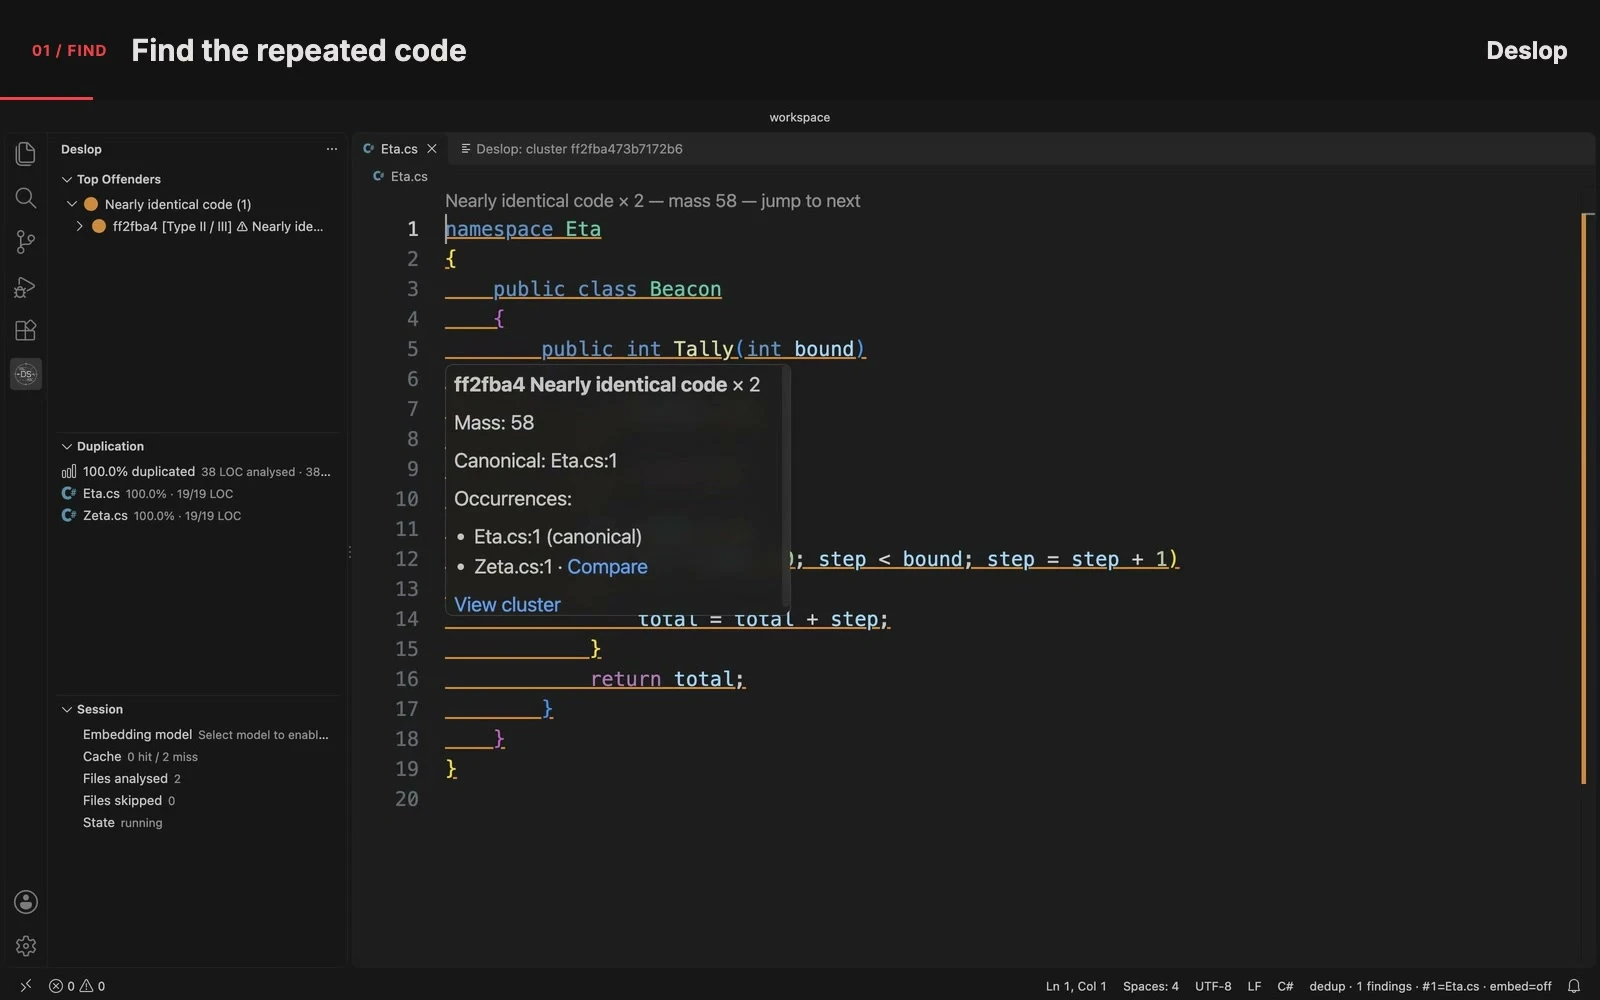
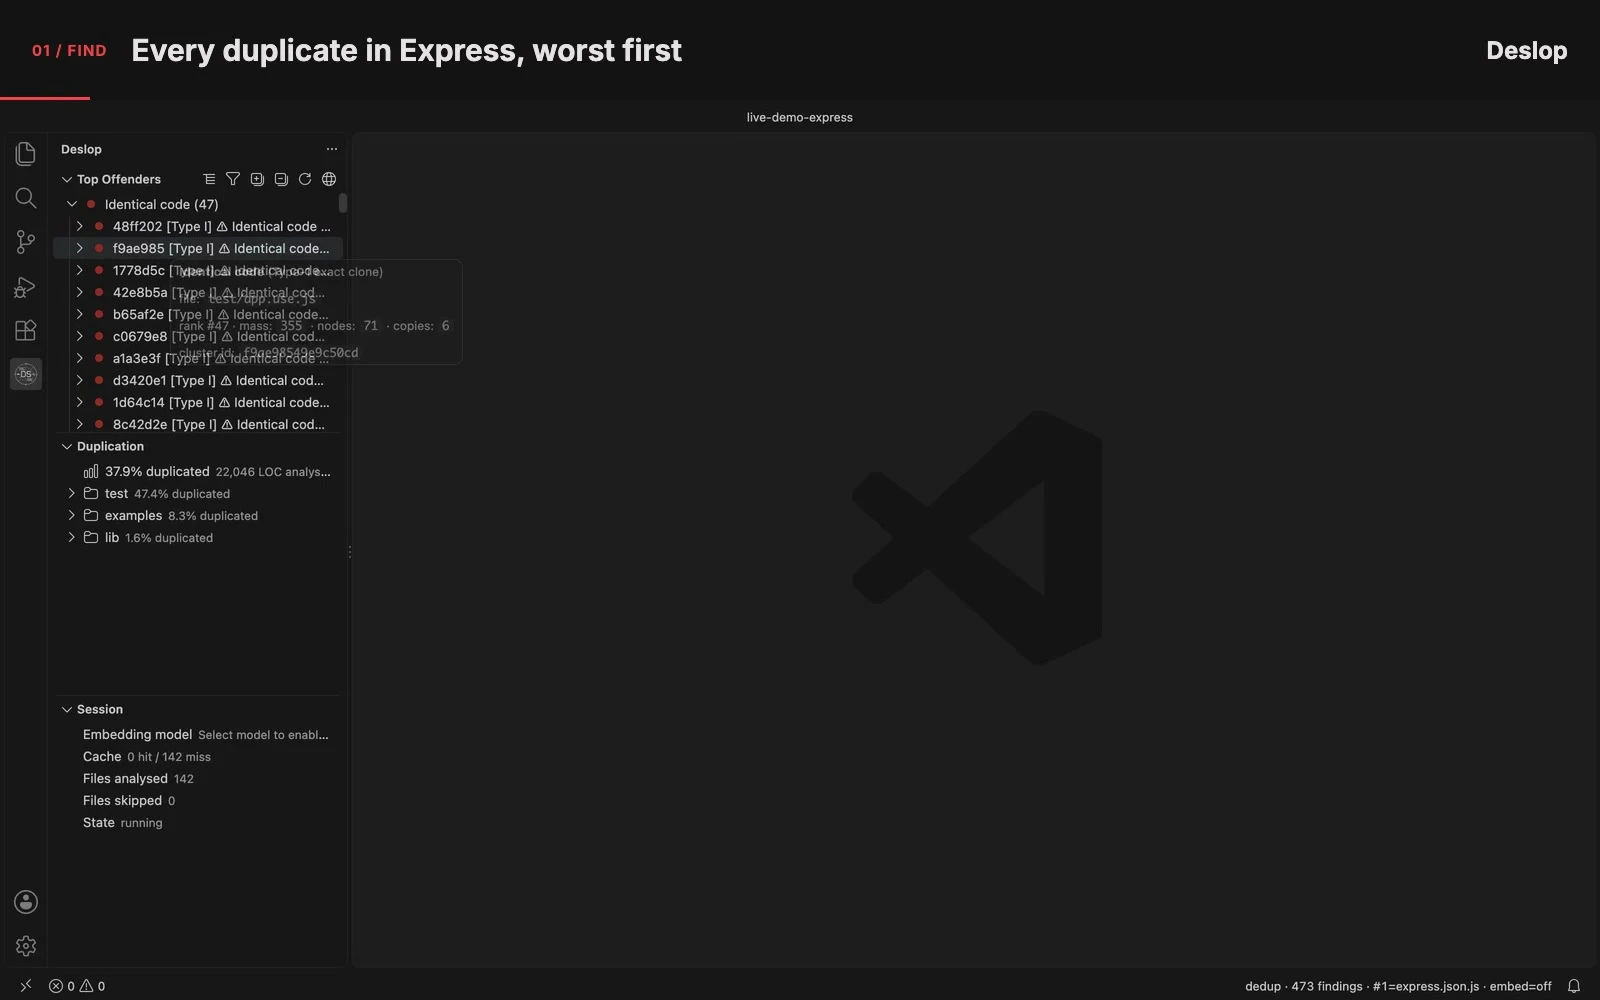
Demo film and README GIF replaced with live footage of Deslop in VS Code on the Express repository

diff --git a/site/tests/homepage-motion.spec.js b/site/tests/homepage-motion.spec.js
@@ -23,9 +23,9 @@ test('the real demo plays, pauses, seeks, exposes captions and stops at its end'
   await expect.poll(() => video.evaluate(element => element.seeking)).toBe(false);
   await expect.poll(() => video.evaluate(element => element.textTracks[0].cues?.length)).toBe(CAPTION_COUNT);
   const captions = await video.evaluate(element => Array.from(element.textTracks[0].cues, cue => cue.text));
-  expect(captions[0]).toContain('Find duplicate code');
-  expect(captions[1]).toContain('canonical');
-  expect(captions[2]).toContain('Compare the copies side by side');
+  expect(captions[0], 'the demo is real footage of a real repository').toContain('Deslop running on the Express repository in VS Code');
+  expect(captions[1]).toContain('Open the worst cluster');
+  expect(captions[2]).toContain('Compare any copy with it side by side');
   expect(await video.evaluate(element => element.currentTime)).toBeCloseTo(SEEK_SECONDS);
   await video.evaluate(element => element.play());
   await expect.poll(() => video.evaluate(element => element.currentTime)).toBeGreaterThan(SEEK_SECONDS);

diff --git a/site/tests/website-audit.spec.js b/site/tests/website-audit.spec.js
@@ -304,8 +304,8 @@ test("homepage demo plays on demand with captions on desktop and mobile", async 
         '@type': 'VideoObject',
         contentUrl: 'https://deslop.live/assets/video/deslop-demo.mp4',
         thumbnailUrl: 'https://deslop.live/assets/img/deslop-demo-poster.webp',
-        duration: 'PT34S',
-        uploadDate: '2026-11-08',
+        duration: 'PT35S',
+        uploadDate: '2026-11-15',
         inLanguage: 'en',
       });
       await video.evaluate(element => { element.muted = true; return element.play(); });
